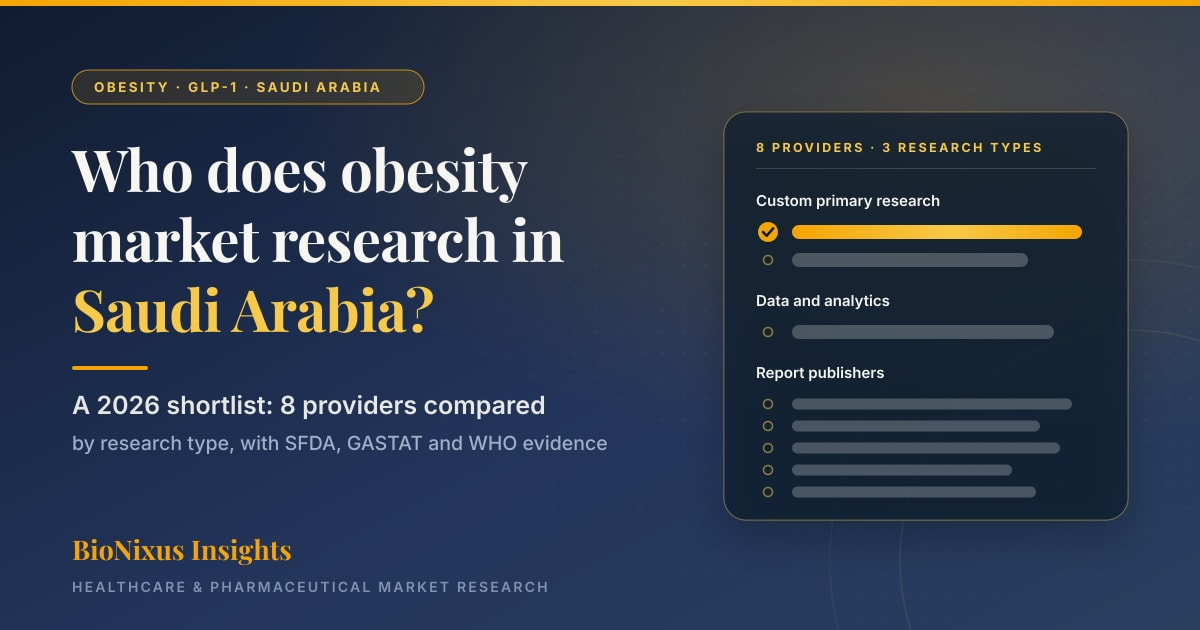
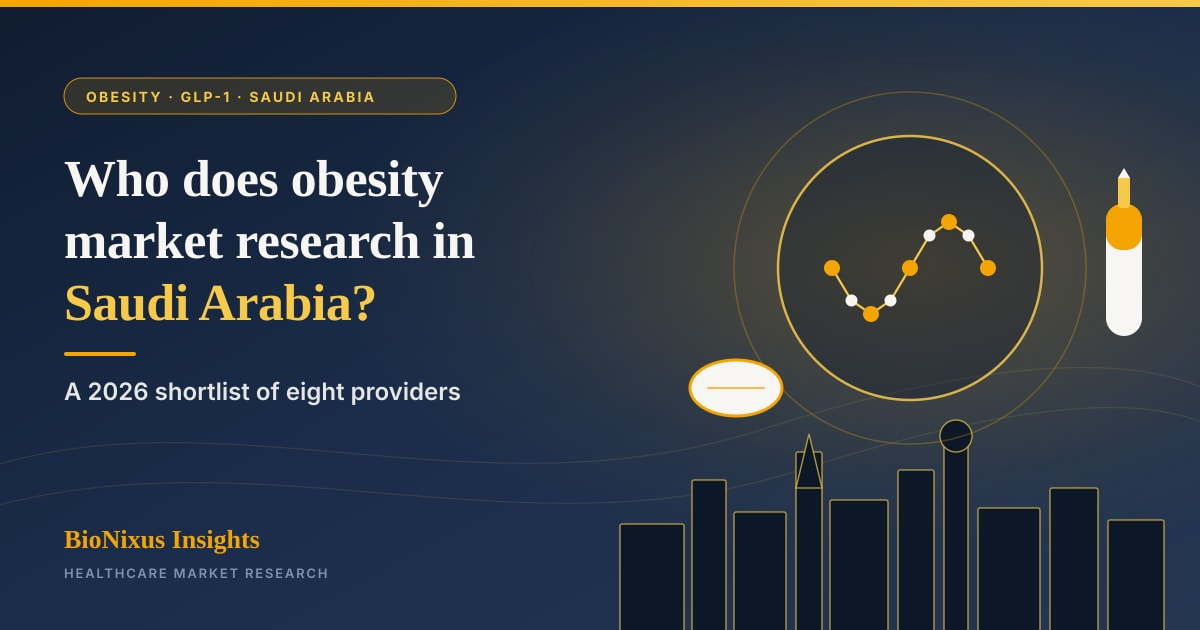
Replace the Saudi obesity shortlist hero with a Riyadh GLP-1 scene.
The text-free hero and the titled OG card stay 1200 by 630 and keep the same filenames, with alt text that matches the new artwork.

diff --git a/src/lib/seo/__tests__/saudi-obesity-shortlist-blog.test.ts b/src/lib/seo/__tests__/saudi-obesity-shortlist-blog.test.ts
@@ -1,10 +1,12 @@
 import { readFileSync, statSync } from 'node:fs';
 import { join } from 'node:path';
+import sharp from 'sharp';
 import { beforeAll, describe, expect, it } from 'vitest';
 import { HelmetProvider } from 'react-helmet-async';
 import { render } from '@/entry-server';
 import { isValidSchemaNode } from '@/components/SchemaMarkup';
 import { getCtrSeo } from '@/data/ctr-seo-overrides';
+import { getBlogHeroPreloadUrl } from '@/lib/image-utils';
 import { hardcodedSeoPosts } from '@/data/blog-posts-index';
 import { BLOG_FORCE_INDEX_SLUGS, BLOG_HARDCODED_SEO_SLUGS } from '@/lib/blog-robots';
 import { GOOGLE_OFFICES } from '@/data/googleLocations';
@@ -114,6 +116,19 @@ describe('/blog/who-does-obesity-market-research-saudi-arabia: server render', (
     expect(html).toContain(`src="${SAUDI_OBESITY_SHORTLIST_HERO_IMAGE}" alt="${SAUDI_OBESITY_SHORTLIST_HERO_IMAGE_ALT}"`);
     expect(html).not.toContain(`src="${SAUDI_OBESITY_SHORTLIST_COVER_IMAGE}"`);
     expect(SAUDI_OBESITY_SHORTLIST_HARDCODED_POST.ogImage).toBe(SAUDI_OBESITY_SHORTLIST_COVER_IMAGE);
+    expect(SAUDI_OBESITY_SHORTLIST_HARDCODED_POST.coverImage).toBe(SAUDI_OBESITY_SHORTLIST_HERO_IMAGE);
+    expect(getBlogHeroPreloadUrl(SAUDI_OBESITY_SHORTLIST_HARDCODED_POST.coverImage)).toBe(
+      SAUDI_OBESITY_SHORTLIST_HERO_IMAGE,
+    );
+    expect(SAUDI_OBESITY_SHORTLIST_HERO_IMAGE_ALT).toContain('Riyadh skyline');
+    expect(SAUDI_OBESITY_SHORTLIST_COVER_IMAGE_ALT).toContain('Riyadh skyline');
+  });
+
+  it('keeps the hero and OG card at 1200 by 630', async () => {
+    for (const file of [SAUDI_OBESITY_SHORTLIST_HERO_IMAGE, SAUDI_OBESITY_SHORTLIST_COVER_IMAGE]) {
+      const meta = await sharp(join(root, 'public', file)).metadata();
+      expect(meta).toMatchObject({ width: 1200, height: 630, format: 'jpeg' });
+    }
   });
 
   it('renders a visible breadcrumb trail that matches the BreadcrumbList', () => {

diff --git a/src/data/blog-saudi-obesity-market-research-shortlist.ts b/src/data/blog-saudi-obesity-market-research-shortlist.ts
@@ -37,14 +37,14 @@ export const SAUDI_OBESITY_SHORTLIST_COVER_IMAGE =
   '/images/blog/who-does-obesity-market-research-saudi-arabia-cover.jpg';
 
 export const SAUDI_OBESITY_SHORTLIST_COVER_IMAGE_ALT =
-  'BioNixus navy and gold cover: who does obesity market research in Saudi Arabia, a 2026 shortlist of obesity and GLP-1 firms';
+  'BioNixus cover: who does obesity market research in Saudi Arabia, a Riyadh skyline with a GLP-1 research motif';
 
 /** Text-free version of the cover for the on-page hero and blog cards, where the h1 sits over the image. */
 export const SAUDI_OBESITY_SHORTLIST_HERO_IMAGE =
   '/images/blog/who-does-obesity-market-research-saudi-arabia-hero.jpg';
 
 export const SAUDI_OBESITY_SHORTLIST_HERO_IMAGE_ALT =
-  'Navy and gold BioNixus artwork for the Saudi Arabia obesity market research shortlist: anonymous provider bars grouped into three research types';
+  'Text-free BioNixus artwork of a Riyadh skyline, a research ring, and an abstract GLP-1 pen and tablet';
 
 type ArticleFigure = {
   src: string;
